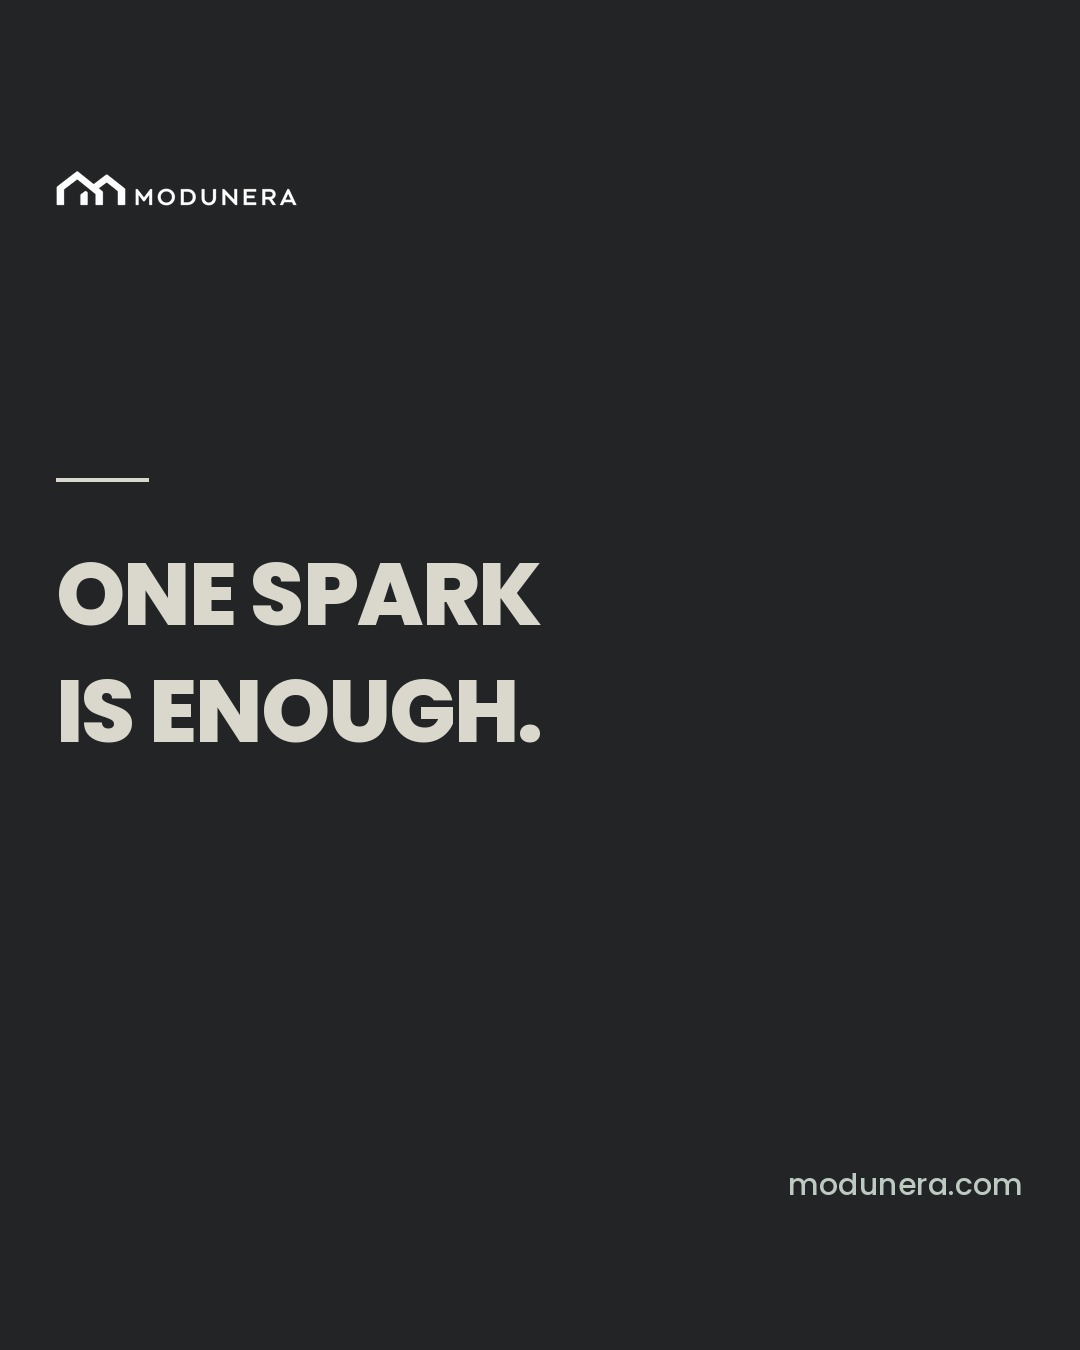
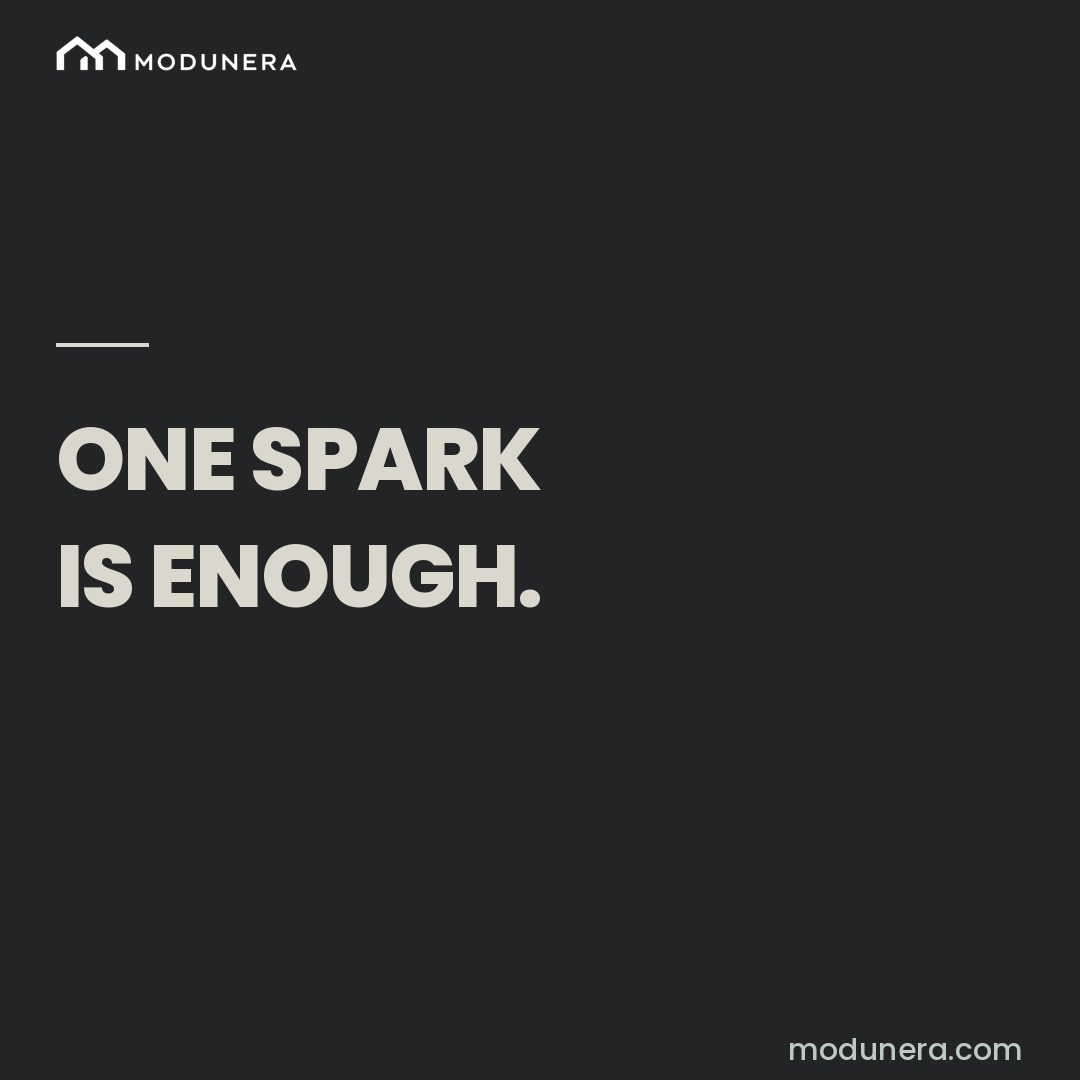
social: square the format, because the grid tile is no longer a crop of the post
Instagram's profile grid stopped being a 1:1 crop of a taller post. A 1080x1350
upload and the tile that represents it are now two different shapes, so Instagram
asks which part of the post the tile should show — a question answered by hand,
once per post, and the reason the logos ended up shifted on the account.

A square post removes the question instead of answering it more carefully: the
post and its tile are the same picture, nothing is cropped on upload, nothing is
chosen afterwards. It costs height in the feed, since a 4:5 post occupies more of
a phone screen, and that is the trade being made deliberately rather than by
default.

POST_H is 1080 and the safe bands are zero. They stay in the file rather than
being deleted, because every placement here and in the scripts that import this
is expressed relative to them — zero is the honest value for "the post is the
frame", and if a format with a crop ever returns it returns in one place.

Two things did not survive the change on their own:

  - duo_post split the frame at a hardcoded 830 px, which was 0.61 of 1350. Left
    as a constant it gave a square post a 250 px band with the statement hanging
    off the bottom. It is proportional now.
  - all five photograph focus values were chosen for a 4:5 crop. A square takes a
    shorter slice out of the same frame, so each landed somewhere else — the lawn
    frame pushed the house into the top half and filled the bottom with gravel,
[…]

diff --git a/tools/social/build_instagram_grid.py b/tools/social/build_instagram_grid.py
@@ -50,7 +50,16 @@ BRAND = ROOT / "assets/brand"
 # tools/social/fonts/README.md.
 FONTS = Path(__file__).resolve().parent / "fonts"
 
-POST_W, POST_H = 1080, 1350
+# Square. Instagram's profile grid is no longer a 1:1 crop of a taller post, so a
+# 1080x1350 upload and the tile that represents it are two different shapes, and
+# Instagram asks which part of the post the tile should show. That question is
+# answered by hand, once per post, and it is where the logos ended up shifted.
+#
+# A square post removes the question rather than answering it more carefully: the
+# post and its tile are the same picture, nothing is cropped on upload, nothing is
+# chosen afterwards. It costs height in the feed — a 4:5 post occupies more of a
+# phone screen — and that is the trade being made deliberately.
+POST_W, POST_H = 1080, 1080
 # Drafts render at post size. A half-size draft cannot answer "is this sharp
 # enough", which is the question the drafts exist to answer. Approval still gates
 # publication — 05-approved is what makes something final, not the pixel count.
@@ -124,10 +133,13 @@ def contrast(a: tuple[int, int, int], b: tuple[int, int, int]) -> float:
 # moss is pure white, not off-white; the small label above it is cream #DAD7CD,
 # the same as .eyebrow on .section-dark; body copy there is #BCCAC2.
 
-# Instagram crops the grid thumbnail to a centred square: 135 px off the top and
-# the bottom of a 1080x1350 post. Nothing that identifies the brand goes there.
-SAFE_TOP = 135
-SAFE_BOTTOM = 135
+# Nothing is cropped any more, so there is no dead band to keep clear of. These
+# stay at zero rather than being deleted: every placement in this file and in the
+# scripts that import it is expressed relative to them, and zero is the honest
+# value for "the post is the frame". If a format with a crop ever comes back,
+# it comes back here and nowhere else.
+SAFE_TOP = 0
+SAFE_BOTTOM = 0
 # Tightened from 74. One margin for the logo, the caption, the card statement and
 # the domain, so everything sits on the same optical frame — a logo pulled left
 # while the caption below it stays put reads as a mistake, not as a decision.
@@ -870,7 +882,10 @@ def duo_post(source: Path, statement: list[str], ground: tuple[int, int, int],
     """Photograph above, colour band below. The type never sits on the picture at
     all, which is a different relationship from a caption and gives the grid a
     second rhythm."""
-    split = 830
+    # Where the photograph ends and the colour band begins. Proportional, not a
+    # pixel count: it was 830 of 1350, and left as a constant it would have given
+    # a square post a 250 px band with the statement hanging off the bottom.
+    split = round(POST_H * 0.61)
     canvas = Image.new("RGB", (POST_W, POST_H), ground)
     im = Image.open(source).convert("RGB")
     im, _ = strip_camera_watermark(im)

diff --git a/tools/social/build_launch_nine.py b/tools/social/build_launch_nine.py
@@ -58,12 +58,17 @@ L_INT = dict(warmth=1.02, lift=0.04, contrast=1.15, saturation=0.92)
 L_NIGHT = dict(warmth=1.04, lift=0.06, contrast=1.10, saturation=0.98, noisy=True)
 L_YARD = dict(warmth=0.99, lift=0.05, contrast=1.20, saturation=0.88)
 
+# The third value is the vertical focus of the crop. All five were re-chosen for
+# the square: a 1:1 frame takes a shorter slice out of the same photograph than a
+# 4:5 did, so every previous value landed somewhere else — on the lawn frame it
+# pushed the house into the top half and filled the bottom with gravel. Picked by
+# rendering the candidates side by side rather than by adjusting one at a time.
 PHOTOS = {
-    "lawn":     ("IMG_20250525_142713.jpg", L_EXT, 0.42),
-    "frame":    ("IMG_20250913_183727.jpg", L_EXT, 0.50),
-    "night":    ("IMG_20250913_193621.jpg", L_NIGHT, 0.45),
-    "cladding": ("20231214_121220.jpg", L_YARD, 0.24),
-    "trailer":  ("IMG_20250913_104632.jpg", L_EXT, 0.52),
+    "lawn":     ("IMG_20250525_142713.jpg", L_EXT, 0.30),     # house full width, lawn under it
+    "frame":    ("IMG_20250913_183727.jpg", L_EXT, 0.55),     # the red steel frame is the subject, not a detail
+    "night":    ("IMG_20250913_193621.jpg", L_NIGHT, 0.46),   # the lit A-frame centred
+    "cladding": ("20231214_121220.jpg", L_YARD, 0.38),        # the timber wall, with the steps
+    "trailer":  ("IMG_20250913_104632.jpg", L_EXT, 0.46),     # wheels visible, it is a transport post
 }
 
 
